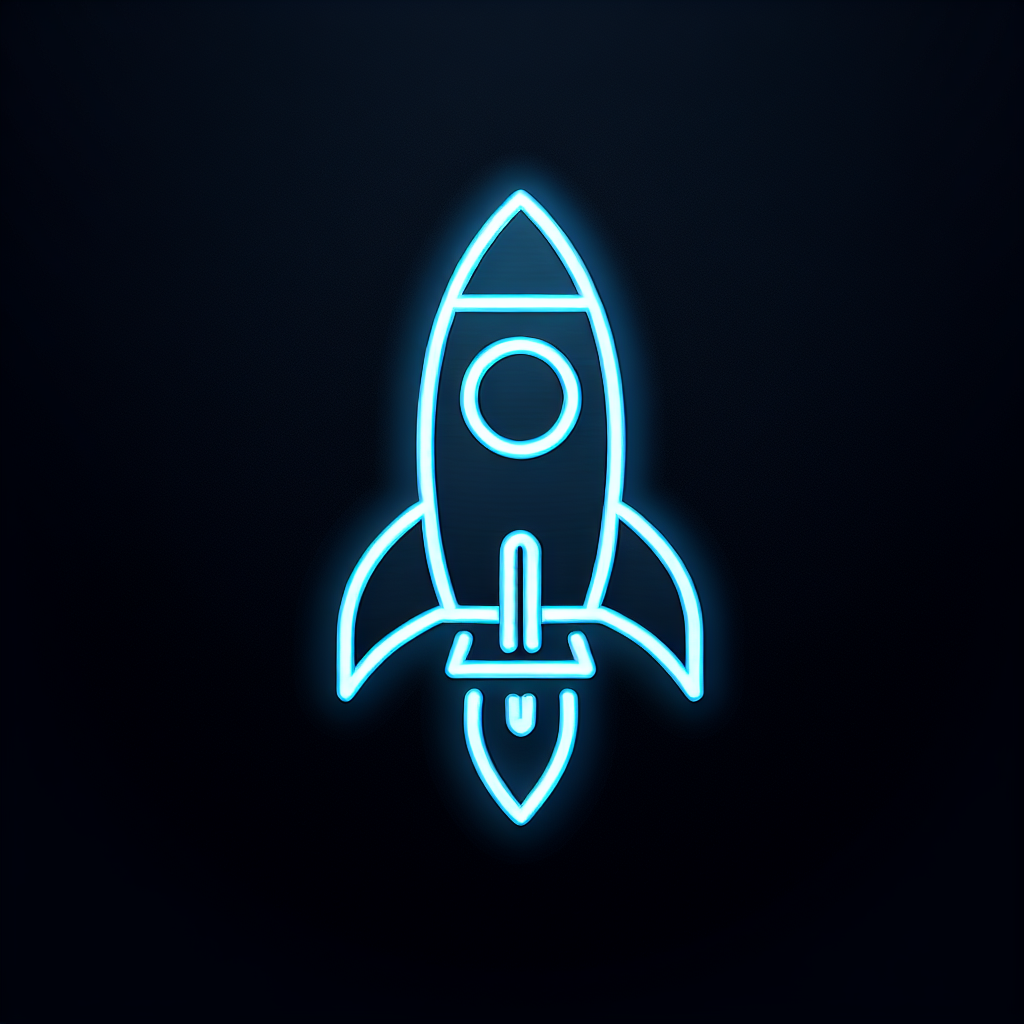
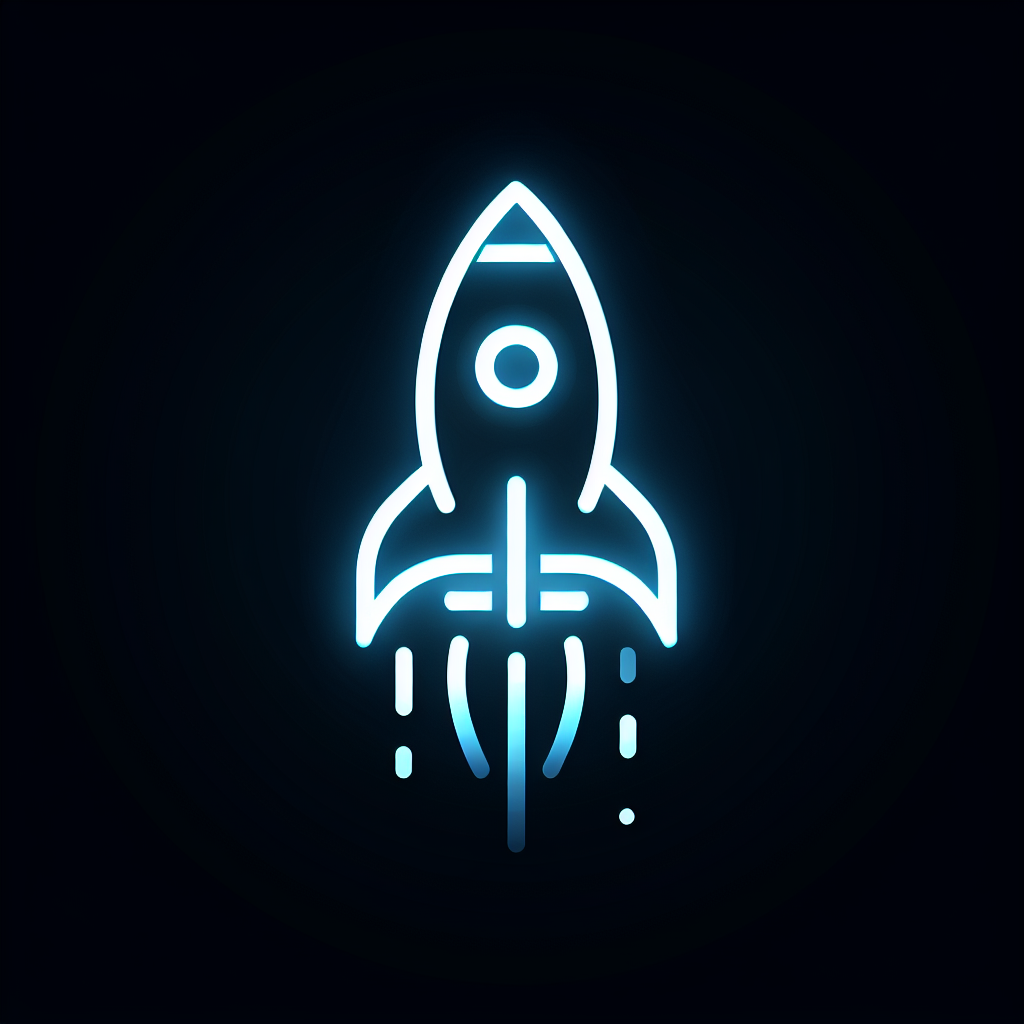
Restored to '05237c2c950705af9260939adc4fcefbfa058970'
Replit-Restored-To: 05237c2c950705af9260939adc4fcefbfa058970

Changed region(s): [[0.3125, 0.1562, 0.7188, 0.8438], [0.4688, 0.0, 0.5625, 0.0312], [0.5938, 0.7812, 0.625, 0.8125]]

diff --git a/client/src/pages/subscription-details-page.tsx b/client/src/pages/subscription-details-page.tsx
@@ -1,111 +1,190 @@
-import { useEffect, useState } from "react";
-import { useLocation } from "wouter";
+import { useState } from "react";
 import { useSupabaseAuth } from "@/hooks/use-supabase-auth";
-import { signatureService } from "@/lib/signature-service";
-import type { EmailSignature, ParchmentSignature } from "../../../lib/supabase-types";
+import { useToast } from "@/hooks/use-toast";
+import { useQuery } from "@tanstack/react-query";
+import { useLocation } from "wouter";
+import { SupabaseCarta } from "@shared/schema";
+import { cartaService } from "@/lib/carta-service";
+
 import Header from "@/components/layout/header";
 import Footer from "@/components/layout/footer";
+import {
+  Card,
+  CardContent,
+  CardDescription,
+  CardFooter,
+  CardHeader,
+  CardTitle,
+} from "@/components/ui/card";
 import { Button } from "@/components/ui/button";
-import { Card, CardContent, CardHeader, CardTitle } from "@/components/ui/card";
-import { ArrowLeft, Mail, Scroll, Calendar, CheckCircle, XCircle } from "lucide-react";
+import { Input } from "@/components/ui/input";
+import { Separator } from "@/components/ui/separator";
+import { Badge } from "@/components/ui/badge";
+import { 
+  ArrowLeft, 
+  Mail, 
+  Scroll, 
+  Search, 
+  Calendar, 
+  CheckCircle, 
+  Clock, 
+  XCircle, 
+  Download 
+} from "lucide-react";
+import { Loader2 } from "lucide-react";
 
 interface SubscriptionDetailsPageProps {
-  params: {
-    type: string;
+  params?: {
+    type?: string;
   };
 }
 
 const SubscriptionDetailsPage = ({ params }: SubscriptionDetailsPageProps) => {
   const { user } = useSupabaseAuth();
+  const { toast } = useToast();
   const [_, setLocation] = useLocation();
-  const [signature, setSignature] = useState<EmailSignature | ParchmentSignature | null>(null);
-  const [isLoading, setIsLoading] = useState(true);
+  const [searchQuery, setSearchQuery] = useState("");
+  
+  // Definindo um tipo padrão caso não seja fornecido
+  const type = params?.type || "email";
+  
+  // Determinar se é assinatura de email ou física
+  const isEmailSubscription = type === "email";
+  const title = isEmailSubscription ? "Assinatura Digital" : "Assinatura Física";
+  const icon = isEmailSubscription ? <Mail className="h-5 w-5 mr-2" /> : <Scroll className="h-5 w-5 mr-2" />;
+  const color = isEmailSubscription ? "text-blue-600" : "text-amber-600";
+  
+  // Obter todas as cartas disponíveis
+  const { 
+    data: cartas, 
+    isLoading, 
+    error 
+  } = useQuery<SupabaseCarta[]>({
+    queryKey: ["cartas"],
+    queryFn: async () => await cartaService.getAllCartas(),
+  });
 
-  const isEmailSubscription = params.type === "email";
+  // Simular assinatura para demonstração - Numa aplicação real, isso viria do banco de dados
+  const userSubscription = {
+    type: type,
+    active: type === "email",
+    startDate: "2023-11-15",
+    letters: [
+      { id: 1, status: "received", receivedDate: "2023-11-20" },
+      { id: 2, status: "received", receivedDate: "2023-12-05" },
+      { id: 3, status: "processing", receivedDate: null },
+    ]
+  };
+  
+  // Filtra as cartas baseado na pesquisa
+  const filteredCartas = cartas?.filter(carta => 
+    carta.title.toLowerCase().includes(searchQuery.toLowerCase()) ||
+    carta.description.toLowerCase().includes(searchQuery.toLowerCase())
+  );
 
-  useEffect(() => {
-    const loadSignature = async () => {
-      if (!user) return;
+  // Função para solicitar reenvio de uma carta
+  const requestLetterAgain = (cartaId: number) => {
+    toast({
+      title: "Solicitação enviada",
+      description: `A carta #${cartaId} será enviada novamente para você.`,
+    });
+  };
 
-      try {
-        const result = isEmailSubscription
-          ? await signatureService.getEmailSignature(user.id)
-          : await signatureService.getParchmentSignature(user.id);
-
-        if (result) {
-          setSignature(result);
-        } else {
-          console.error('Nenhuma assinatura encontrada');
-        }
-      } catch (error) {
-        console.error('Erro ao carregar assinatura:', error);
-      } finally {
-        setIsLoading(false);
-      }
-    };
-
-    loadSignature();
-  }, [user, isEmailSubscription]);
-
-  if (isLoading) {
-    return <div>Carregando...</div>;
-  }
+  // Renderizar status de uma carta específica
+  const renderLetterStatus = (cartaId: number) => {
+    const letterSubscription = userSubscription.letters.find(l => l.id === cartaId);
+    
+    if (!letterSubscription) {
+      return (
+        <Badge variant="outline" className="flex items-center gap-1 text-gray-500">
+          <XCircle className="h-3 w-3" />
+          <span>Não recebida</span>
+        </Badge>
+      );
+    }
+    
+    if (letterSubscription.status === "received") {
+      return (
+        <Badge variant="outline" className="flex items-center gap-1 text-green-600">
+          <CheckCircle className="h-3 w-3" />
+          <span>Recebida em {letterSubscription.receivedDate}</span>
+        </Badge>
+      );
+    }
+    
+    return (
+      <Badge variant="outline" className="flex items-center gap-1 text-amber-600">
+        <Clock className="h-3 w-3" />
+        <span>Em processamento</span>
+      </Badge>
+    );
+  };
 
   return (
     <div className="min-h-screen flex flex-col">
       <Header />
-
-      <main className="flex-grow p-6 max-w-3xl mx-auto w-full">
+      
+      <main className="flex-grow p-6 max-w-5xl mx-auto w-full">
         <div className="flex items-center mb-6">
           <Button 
             variant="ghost" 
             size="sm" 
-            onClick={() => setLocation("/account?tab=subscriptions")}
+            onClick={() => setLocation("/account")}
             className="text-gray-600"
           >
             <ArrowLeft className="h-4 w-4 mr-2" />
-            Voltar
+            Voltar para Conta
           </Button>
         </div>
 
-        <Card>
+        <div className="flex items-center mb-4">
+          <div className={`mr-2 ${color}`}>{icon}</div>
+          <h1 className="text-2xl font-bold">{title}</h1>
+          <Badge 
+            variant={userSubscription.active ? "default" : "destructive"}
+            className="ml-4"
+          >
+            {userSubscription.active ? "Ativa" : "Inativa"}
+          </Badge>
+        </div>
+        
+        <Card className="mb-6">
           <CardHeader>
-            <div className="flex items-center mb-4">
-              {isEmailSubscription ? (
-                <Mail className="h-6 w-6 mr-2 text-blue-600" />
-              ) : (
-                <Scroll className="h-6 w-6 mr-2 text-amber-600" />
-              )}
-              <CardTitle>
-                {isEmailSubscription ? "Assinatura Digital" : "Assinatura Física"}
-              </CardTitle>
-            </div>
+            <CardTitle>Detalhes da Assinatura</CardTitle>
+            <CardDescription>
+              Informações sobre sua assinatura e histórico de cartas recebidas
+            </CardDescription>
           </CardHeader>
           <CardContent>
             <div className="space-y-4">
-              <div className="flex items-center">
-                <span className="font-medium mr-2">Status:</span>
-                {signature?.status_signature === 'active' ? (
-                  <span className="flex items-center text-green-600">
-                    <CheckCircle className="h-4 w-4 mr-1" />
-                    Ativa
-                  </span>
-                ) : (
-                  <span className="flex items-center text-red-600">
-                    <XCircle className="h-4 w-4 mr-1" />
-                    Inativa
-                  </span>
-                )}
+              <div className="grid grid-cols-2 gap-4">
+                <div>
+                  <span className="text-sm font-medium text-gray-500">Tipo de Assinatura</span>
+                  <p className="flex items-center">
+                    {isEmailSubscription ? "Digital (Email)" : "Física (Correios)"}
+                  </p>
+                </div>
+                <div>
+                  <span className="text-sm font-medium text-gray-500">Data de Início</span>
+                  <p className="flex items-center">
+                    <Calendar className="h-4 w-4 mr-1 text-gray-500" />
+                    {userSubscription.startDate}
+                  </p>
+                </div>
               </div>
-
-              <div className="flex items-center">
-                <Calendar className="h-4 w-4 mr-2 text-gray-500" />
-                <span className="font-medium mr-2">Data de início:</span>
-                {signature?.created_at ? new Date(signature.created_at).toLocaleDateString('pt-BR') : 'N/A'}
+              
+              <div>
+                <span className="text-sm font-medium text-gray-500">Destino</span>
+                <p>
+                  {isEmailSubscription 
+                    ? user?.email 
+                    : "Seu endereço cadastrado"
+                  }
+                </p>
               </div>
-
-              {signature?.status_signature !== 'active' && (
-                <div className="bg-red-50 border border-red-200 rounded-md p-4 mt-4">
+              
+              {!userSubscription.active && (
+                <div className="bg-red-50 border border-red-200 rounded-md p-3">
                   <p className="text-red-800 text-sm">
                     Esta assinatura está desativada. Ative-a na página da sua conta para continuar recebendo cartas.
                   </p>
@@ -114,8 +193,90 @@ const SubscriptionDetailsPage = ({ params }: SubscriptionDetailsPageProps) => {
             </div>
           </CardContent>
         </Card>
+        
+        <div className="mb-6">
+          <div className="flex justify-between items-center mb-4">
+            <h2 className="text-xl font-bold">Histórico de Cartas</h2>
+            <div className="relative w-64">
+              <Search className="absolute left-2 top-2.5 h-4 w-4 text-gray-400" />
+              <Input
+                placeholder="Buscar cartas..."
+                className="pl-8"
+                value={searchQuery}
+                onChange={(e) => setSearchQuery(e.target.value)}
+              />
+            </div>
+          </div>
+          
+          {isLoading ? (
+            <div className="flex justify-center items-center py-12">
+              <Loader2 className="h-8 w-8 animate-spin text-gray-500" />
+            </div>
+          ) : error ? (
+            <div className="text-center py-8">
+              <p className="text-red-500">Erro ao carregar as cartas. Por favor, tente novamente.</p>
+            </div>
+          ) : (
+            <div className="grid gap-4">
+              {filteredCartas && filteredCartas.length > 0 ? (
+                filteredCartas.map(carta => (
+                  <Card key={carta.id} className="overflow-hidden">
+                    <CardContent className="p-0">
+                      <div className="flex flex-col md:flex-row">
+                        <div className="flex-1 p-4">
+                          <div className="flex items-center justify-between mb-2">
+                            <h3 className="font-semibold">Carta #{carta.id_sumary_carta}: {carta.title}</h3>
+                            {renderLetterStatus(carta.id_sumary_carta)}
+                          </div>
+                          <p className="text-sm text-gray-600">{carta.description}</p>
+                          <div className="mt-3 text-sm text-gray-500 flex items-center">
+                            <Calendar className="h-3 w-3 mr-1" />
+                            Publicada em: {carta.date_send}
+                          </div>
+                        </div>
+                        <div className="bg-gray-50 p-4 flex flex-col justify-center items-center md:w-48">
+                          <Button 
+                            variant="outline" 
+                            size="sm"
+                            className="w-full mb-2"
+                            onClick={() => {
+                              // Seguindo a lógica implementada no LetterCard
+                              // Para cartas do Supabase, usamos id_sumary_carta como id para navegação
+                              const cartaId = carta.id_sumary_carta;
+                              console.log('Abrindo carta com ID:', cartaId);
+                              setLocation(`/letter/${cartaId}`);
+                            }}
+                          >
+                            Ver carta
+                          </Button>
+                          <Button 
+                            variant="ghost" 
+                            size="sm"
+                            className="w-full"
+                            onClick={() => requestLetterAgain(carta.id_sumary_carta)}
+                          >
+                            <Download className="h-3 w-3 mr-1" />
+                            Solicitar novamente
+                          </Button>
+                        </div>
+                      </div>
+                    </CardContent>
+                  </Card>
+                ))
+              ) : (
+                <div className="text-center py-8">
+                  <p className="text-gray-500">
+                    {searchQuery 
+                      ? "Nenhuma carta encontrada com esse termo de busca." 
+                      : "Você ainda não recebeu nenhuma carta desta assinatura."}
+                  </p>
+                </div>
+              )}
+            </div>
+          )}
+        </div>
       </main>
-
+      
       <Footer />
     </div>
   );
